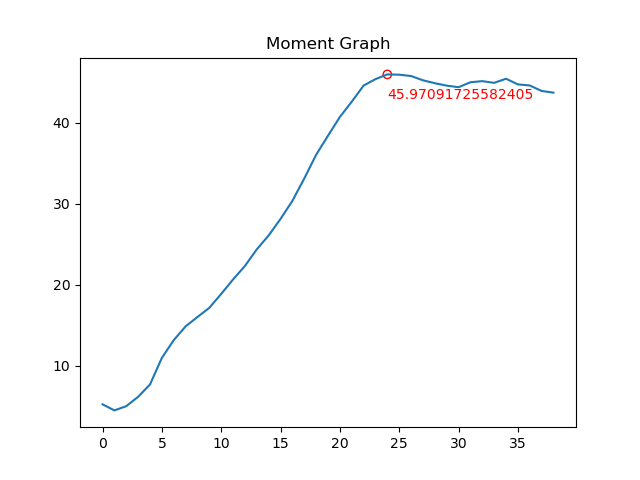
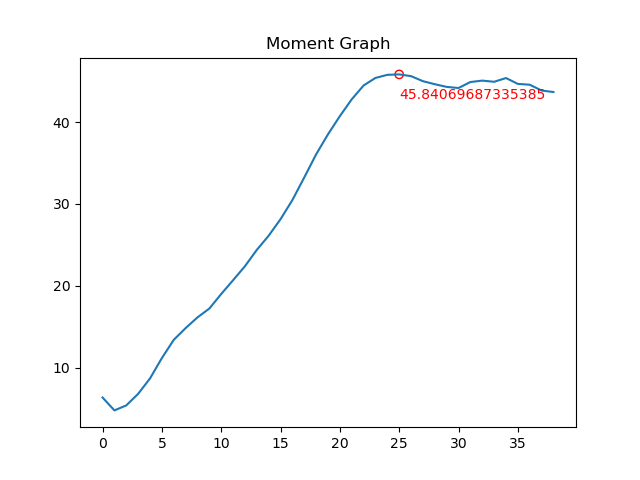
modified the cal_moment.py error

diff --git a/acceleration_computation/cal_moment.py b/acceleration_computation/cal_moment.py
@@ -48,7 +48,7 @@ def calMoment(m, g, reactionForce, accdata, origianlData):
 
 
 
-    return -GRF[:-2,0]*dis_GRF_ankle_z - GRF[:-2,0]*dis_GRF_ankle_x + m*g*dis_footCG_ankle_x - acc_foot[:,0]/1000*m*dis_footCG_ankle_z - acc_foot[:,0]/1000*m*dis_footCG_ankle_x + I*acc_angle/1000
+    return -GRF[:-2,0]*dis_GRF_ankle_z - GRF[:-2,0]*dis_GRF_ankle_x + m*g*dis_footCG_ankle_x - acc_foot[:,0]/1000*m*dis_footCG_ankle_z - acc_foot[:,2]/1000*m*dis_footCG_ankle_x + I*acc_angle/1000
 
 def getMaxMoment():
     originalData = read_data_example()
